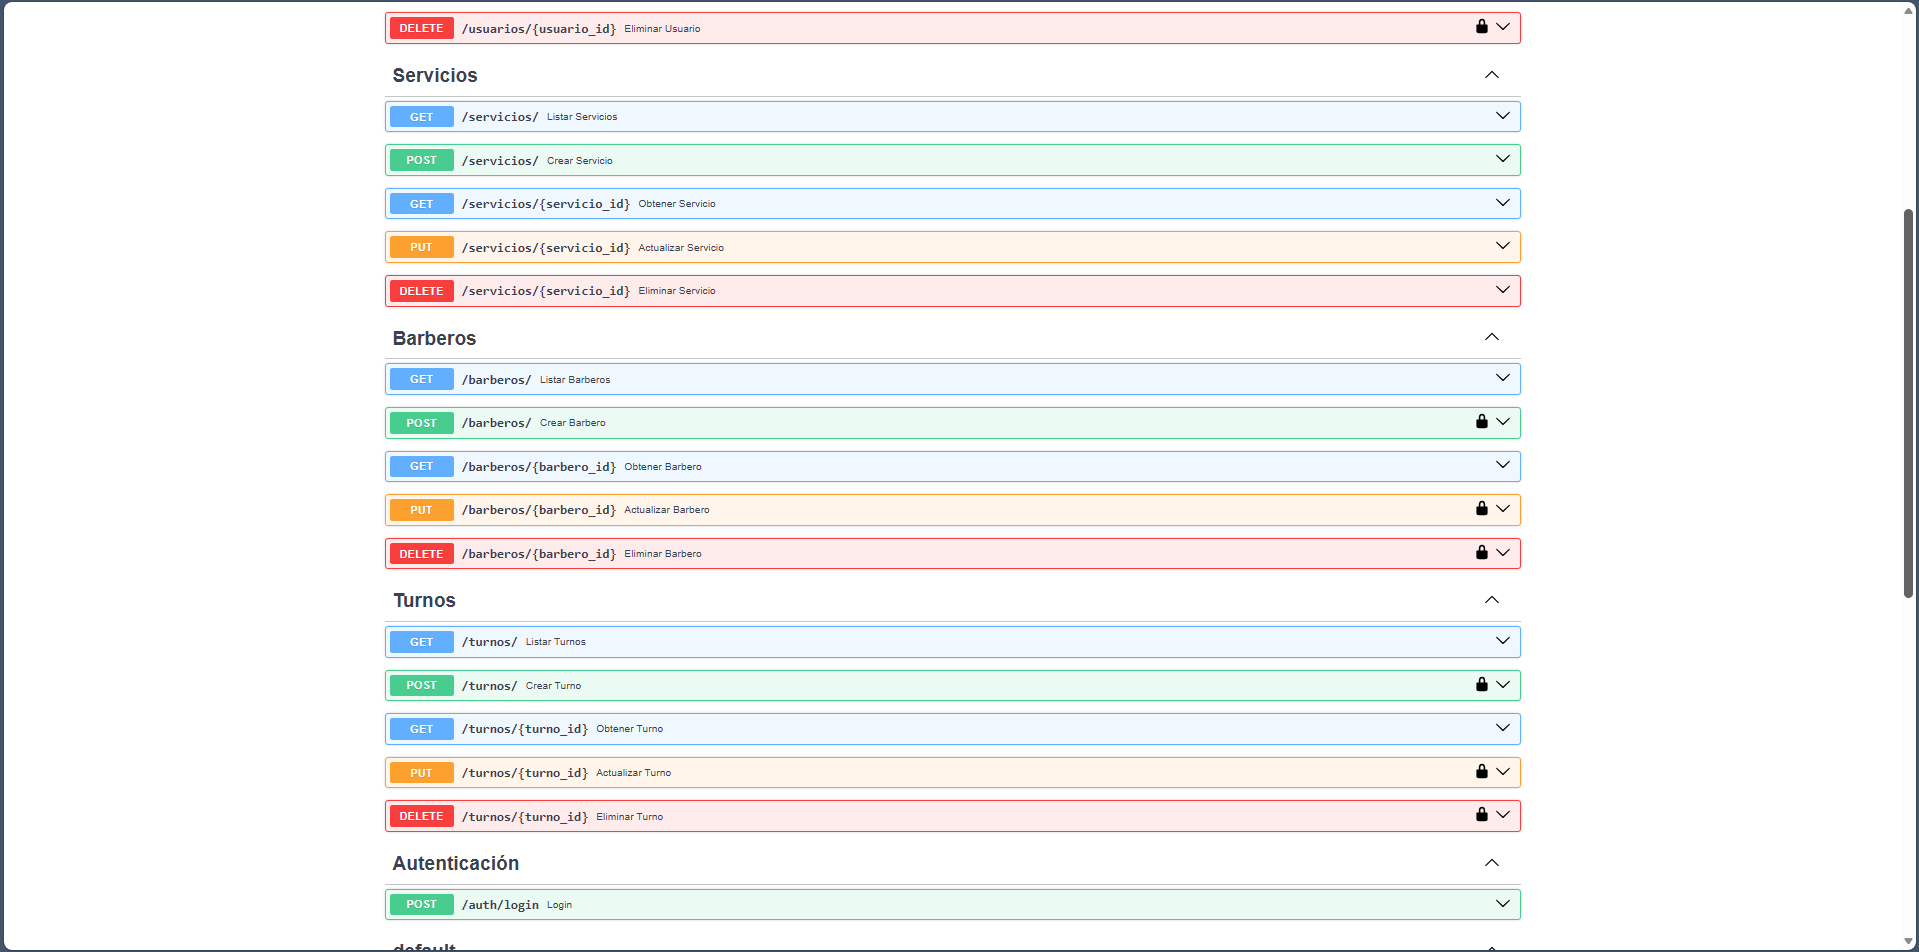
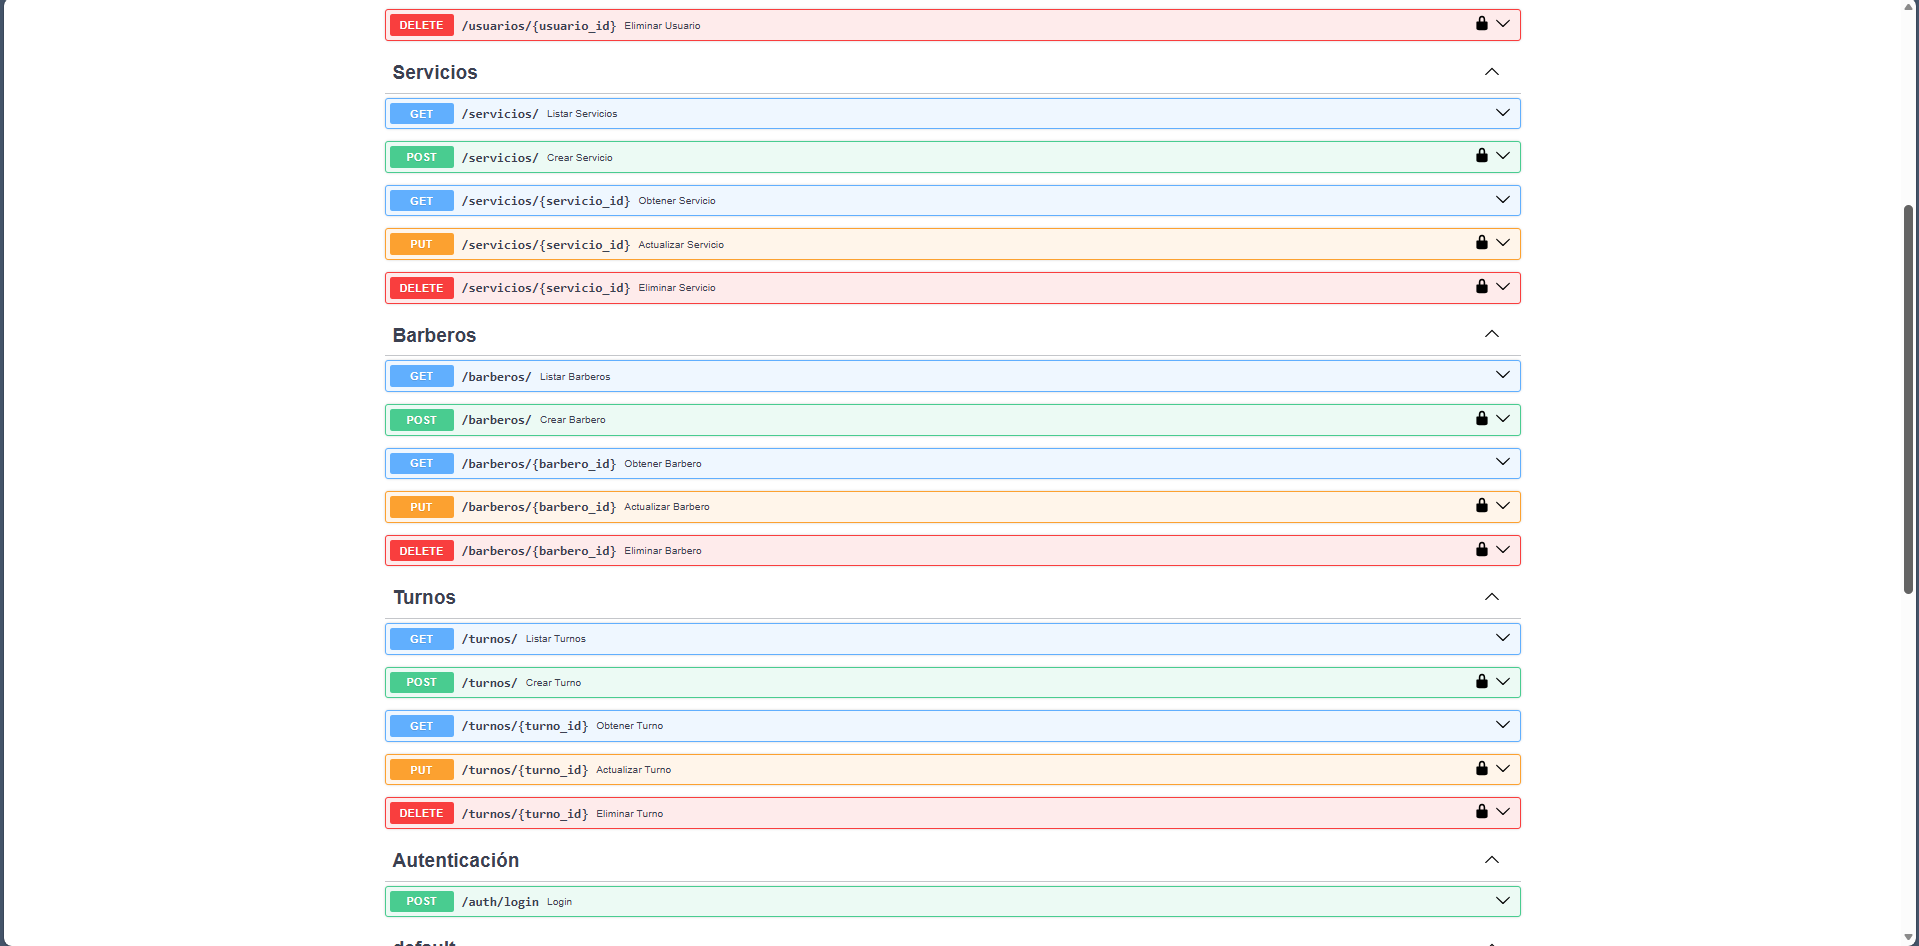
docs: actualizar README e imagenes

Changed region(s): [[0.0, 0.5211, 1.0, 1.0], [0.1845, 0.0, 0.7994, 0.4598], [0.9838, 0.0, 1.0, 0.0307]]

diff --git a/README.md b/README.md
@@ -72,7 +72,7 @@ docker-compose up
 
 ```bash
 # Clonar repositorio
-git clone https://github.com/TU_USUARIO/gestion-barberia.git
+git clone https://github.com/matufalcon/gestion-barberia.git
 cd gestion-barberia
 
 # Crear entorno virtual